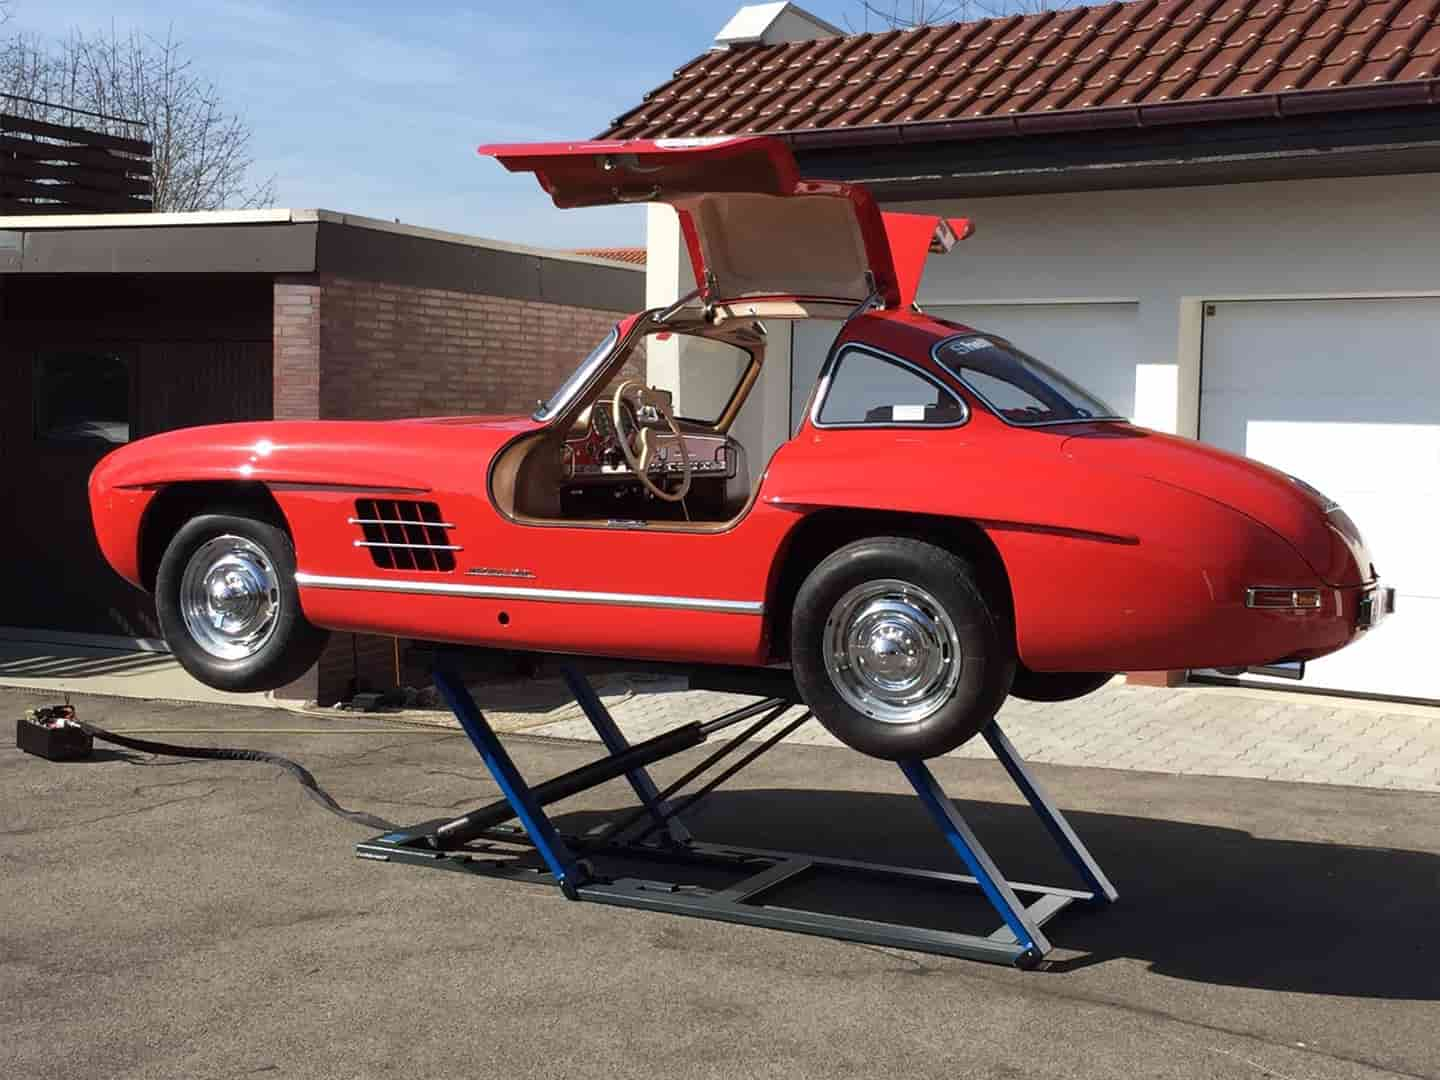
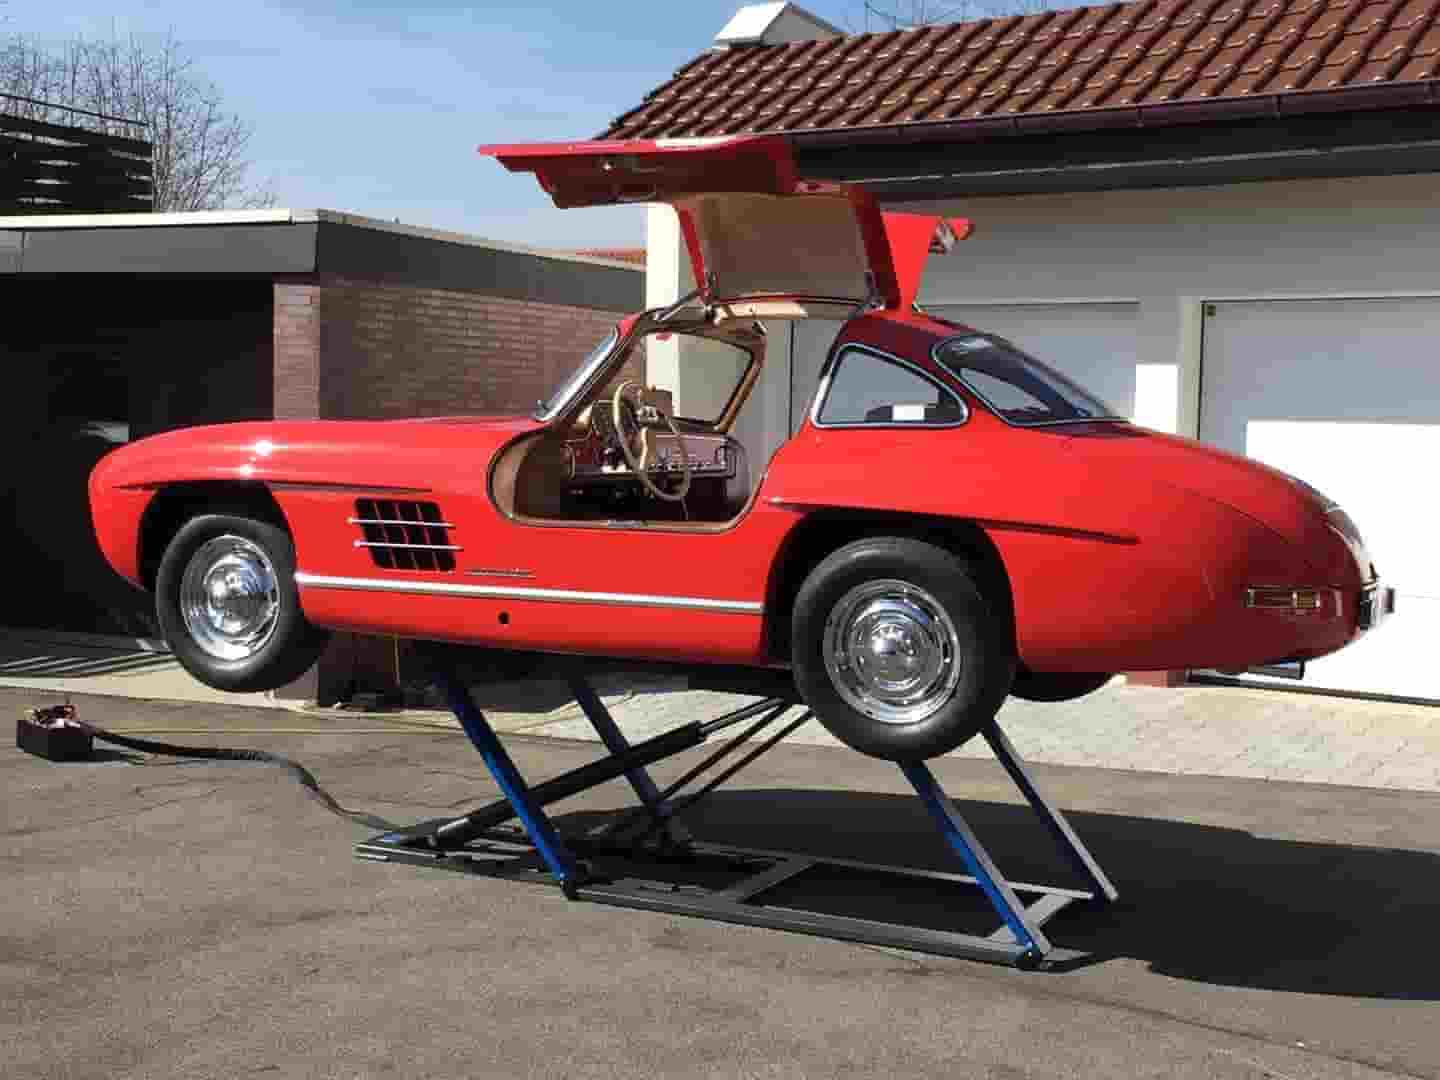
Fixed some bugs

diff --git a/src/components/Sections/ContactSection.jsx b/src/components/Sections/ContactSection.jsx
@@ -18,7 +18,10 @@ const ContactSection = () => {
             <div>
               <h3>E-mail</h3>
               <p>
-                <a href="mailto:info@mobilnedizalice.com">
+                <a
+                  className={classes.link}
+                  href="mailto:info@mobilnedizalice.com"
+                >
                   info@mobilnedizalice.com
                 </a>
               </p>
@@ -26,7 +29,9 @@ const ContactSection = () => {
             <div>
               <h3>Telefon</h3>
               <p>
-                <a href="tel:+381-323-70-730 ">+381 32 370 730 </a>
+                <a className={classes.link} href="tel:+381-323-70-730 ">
+                  +381 32 370 730{' '}
+                </a>
               </p>
             </div>
             <div className={`${classes.icons} icons`}>

diff --git a/src/data/galerija.js b/src/data/galerija.js
@@ -15,7 +15,7 @@ export const mainPhotosOnPhone = [...mainPhotos].slice(0, -1)
 let secondaryPhotos = []
 export const allImages = [...mainPhotos]
 
-for (let i = 1; i <= 100; i++) {
+for (let i = 10; i <= 100; i++) {
   import(`../assets/galerija/galerija${i}.jpg`).then(res => {
     secondaryPhotos.push(res.default)
     allImages.push(res.default)

diff --git a/src/components/Sections/AboutProduct.jsx b/src/components/Sections/AboutProduct.jsx
@@ -1,6 +1,6 @@
 import classes from './AboutProduct.module.css'
 import Container from '../UI/Container'
-import dizalica from '../../assets/dizalica.png'
+import dizalica from '../../assets/dizalica2.png'
 import { Link } from 'react-router-dom'
 
 const AboutProduct = () => {

diff --git a/src/components/Sections/ContactSection.module.css b/src/components/Sections/ContactSection.module.css
@@ -43,6 +43,14 @@
   fill: var(--main-clr);
 }
 
+.link {
+  transition: color 0.2s;
+}
+
+.link:hover {
+  color: var(--main-clr);
+}
+
 @media only screen and (max-width: 930px) {
   .wrapper {
     flex-direction: column;

diff --git a/src/components/Sections/ONamaSection.module.css b/src/components/Sections/ONamaSection.module.css
@@ -8,7 +8,7 @@
 
 .img-wrapper {
   background-image: url('../../assets/onama.jpg');
-  height: 580px;
+  height: 550px;
   filter: brightness(80%);
   background-position-y: center;
   background-position-x: center;
